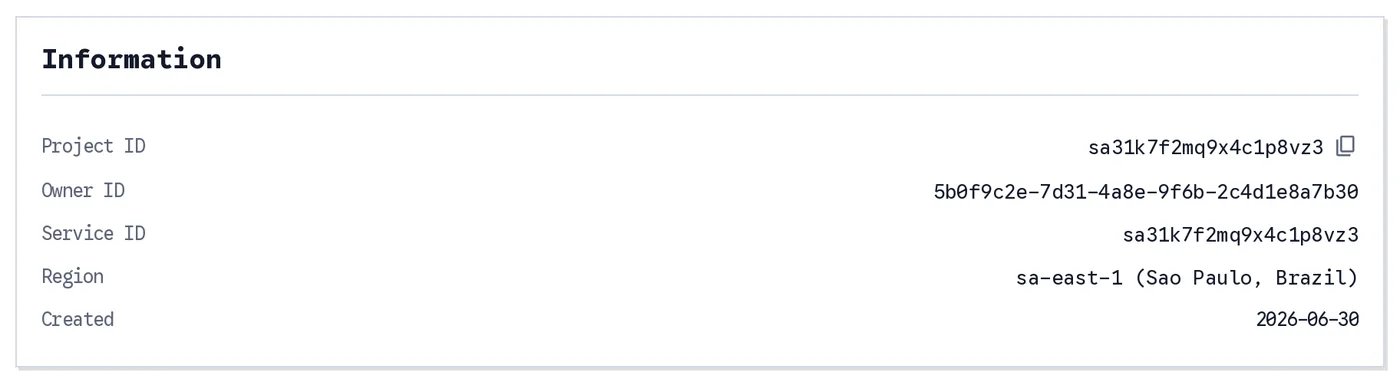
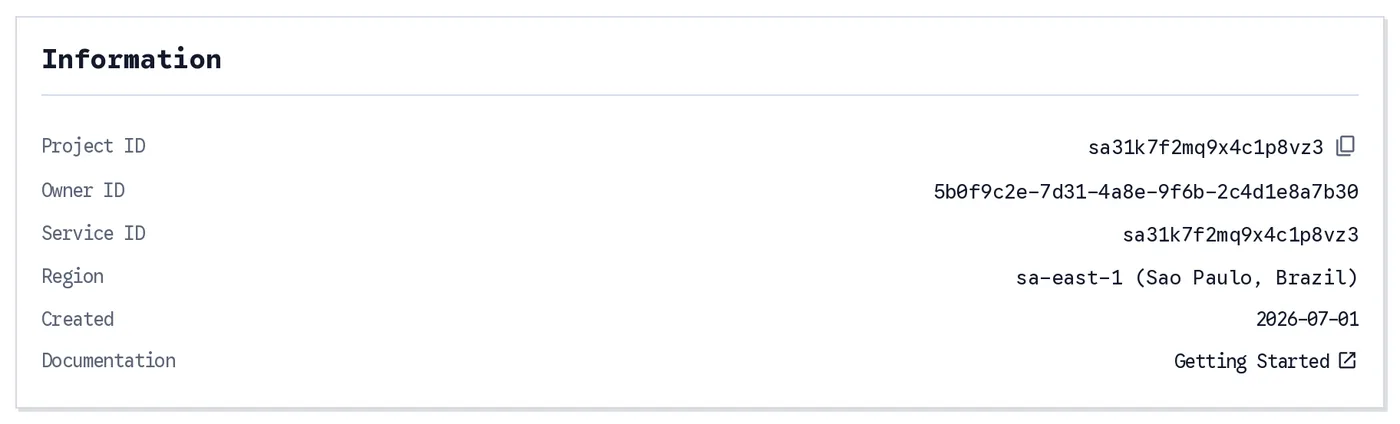
docs: update screenshots and enhance descriptions in AI-driven and Getting Started documentation; bump version to 2.2.2 with detailed changelog

diff --git a/versionlog/versions.md b/versionlog/versions.md
@@ -1,9 +1,26 @@
 # Version History
 
-### Current version: 2.2.0
+### Current version: 2.2.2
+
+**2.2.2**
+
+- `getUsers()` takes a **list in `value` for every attribute** it can search, not only `user_id`. `{ searchFor: 'email', value: ['alice@example.com', 'bob@example.com'] }` looks each address up directly and returns the accounts that exist, in one call. Every item of the list is checked the way the single value is, so a wrong type is refused with `INVALID_PARAMETER` before the request is sent. See [Fetch multiple users by a list of e-mails](/user-account/get-users.html#fetch-multiple-users-by-a-list-of-e-mails).
+- A list is a set of exact values, not a range: it works with the default `=` condition only and takes no `range`. Anything else is refused with `INVALID_PARAMETER` and `Conditions are not allowed on a list of "<attribute>" values. Search for a single value to use a condition or range.`
+- A single `user_id` is no longer refused a `condition` or a `range` by the SDK. Only a list is.
+
+**2.2.1**
+
+- `postRecord()` takes **`notification: { title, body }`**, the text of the push notification a new record sends to the uploader's subscribers when it is posted with `table.subscription.notify_subscribers`. Both fields are required, and together they must fit 3072 bytes. Without it, subscribers see a default title and body. It is read only when a record is created: an update ignores it, and so does a record posted without `notify_subscribers`. A value that is not an object, or is missing `title` or `body`, is refused with `INVALID_PARAMETER` before the request is sent. See [Notifying subscribers of a new record](/database/subscription.html#notifying-subscribers-of-a-new-record).
+- `subscribe()` called again for a user you already subscribe to **changes only the options you pass** and keeps the rest, so `get_notified` can be turned on or off without touching `get_feed`. Before, an option left out was sent as `false`, which switched it off. A new subscription still starts with every option off. See [Subscribing](/database/subscription.html#subscribing).
+- Fixed: `subscribe()` with `get_email: false` was refused with `User has no verified email address.` for a user without a verified e-mail. Only `get_email: true` needs one.
+- `requestBatchSize` defaults to `50`, up from `30`. See [Advanced Settings](/introduction/getting-started.html#advanced-settings).
+- The `subscription` of a returned record carries `is_subscription_record`, and the `Subscription` and `PostRecordConfig` types document what each option does.
+- Backend (ships with the API, not the SDK): `notify_subscribers` and `notify_referencing_records` send push notifications. A record created with `notify_subscribers` notifies the uploader's subscribers who subscribed with `get_notified`, and every new reference to a record posted with `notify_referencing_records` notifies that record's uploader's subscribers. Only subscribers who can read the record are told, a `private` record never notifies, the user who posted is never told, and only references made by signed-in users notify. The push message carries `type`, `record_id`, `table` and `user_id` beside `title` and `body`, and `reference` for a reference. See [Notifications](/database/subscription.html#notifications) and [Notifications from Records](/notification/send-notifications.html#notifications-from-records).
+- Backend (ships with the API, not the SDK): `pushNotification()` with a list of user IDs reaches every one of them, on every device each registered, up to 1000 users per call. See [Sending Notifications (For Admins)](/notification/send-notifications.html#sending-notifications-for-admins).
 
 **2.2.0**
 
+- `new Skapi("<Project ID>")` written with the placeholder of the documentation, angle brackets included, **asks for the project ID** instead of refusing to start: with a prompt in a browser, and with a question on the terminal in Node. The answer is kept for the session, the browser tab or the Node process, so it is asked once. A copied example runs before you have edited it. Replace the placeholder with your project ID before you publish.
 - The ticket types follow the current ticket rules. This is a type break: code that sets `request` on a ticket condition, or `secret` on a signature, no longer compiles.
   - `TicketRequestCondition` is gone, and so is `request` on `TicketCondition` and `TicketResponseCondition`: call the URL with a `req` action and check its answer with that action's `condition`. See [Checking the response](/tickets/actions.html#checking-the-response).
   - `TicketSignatureCondition` names its Secret Key `secretName`, not `secret`.

diff --git a/introduction/getting-started.md b/introduction/getting-started.md
@@ -15,7 +15,7 @@ To build a full-stack web application, create a project and connect it to your H
 
 Your new project opens on its `Settings` page. The **Information** card holds the **Project ID**, the value every example in this documentation calls `<Project ID>`. Click it to copy it.
 
-![The Settings page of a Skapi project: the Project card with its name and description, the Information card with the Project ID, Owner ID, Service ID, Region and creation date, and the Application Examples card below](/screenshots/settings-page.webp)
+![The Settings page of a Skapi project: the Project card with its name and description, the Information card with the Project ID, Owner ID, Service ID, Region, creation date and a link to the documentation, and the Application Examples card below](/screenshots/settings-page.webp)
 
 *The Settings page of a project. The Project ID is on the Information card.*
 

diff --git a/introduction/ai-driven.md b/introduction/ai-driven.md
@@ -25,7 +25,7 @@ Your project's `Settings` page at [skapi.com](https://www.skapi.com) offers the 
 
 Your project ID is on the same page, under **Information**. Click it to copy it.
 
-![The Information card on a project's Settings page, with the Project ID, Owner ID, Service ID, Region and creation date](/screenshots/settings-information.webp)
+![The Information card on a project's Settings page, with the Project ID, Owner ID, Service ID, Region, creation date and a link to the documentation](/screenshots/settings-information.webp)
 
 *The Information card. The Project ID is what `new Skapi()` takes.*
 
